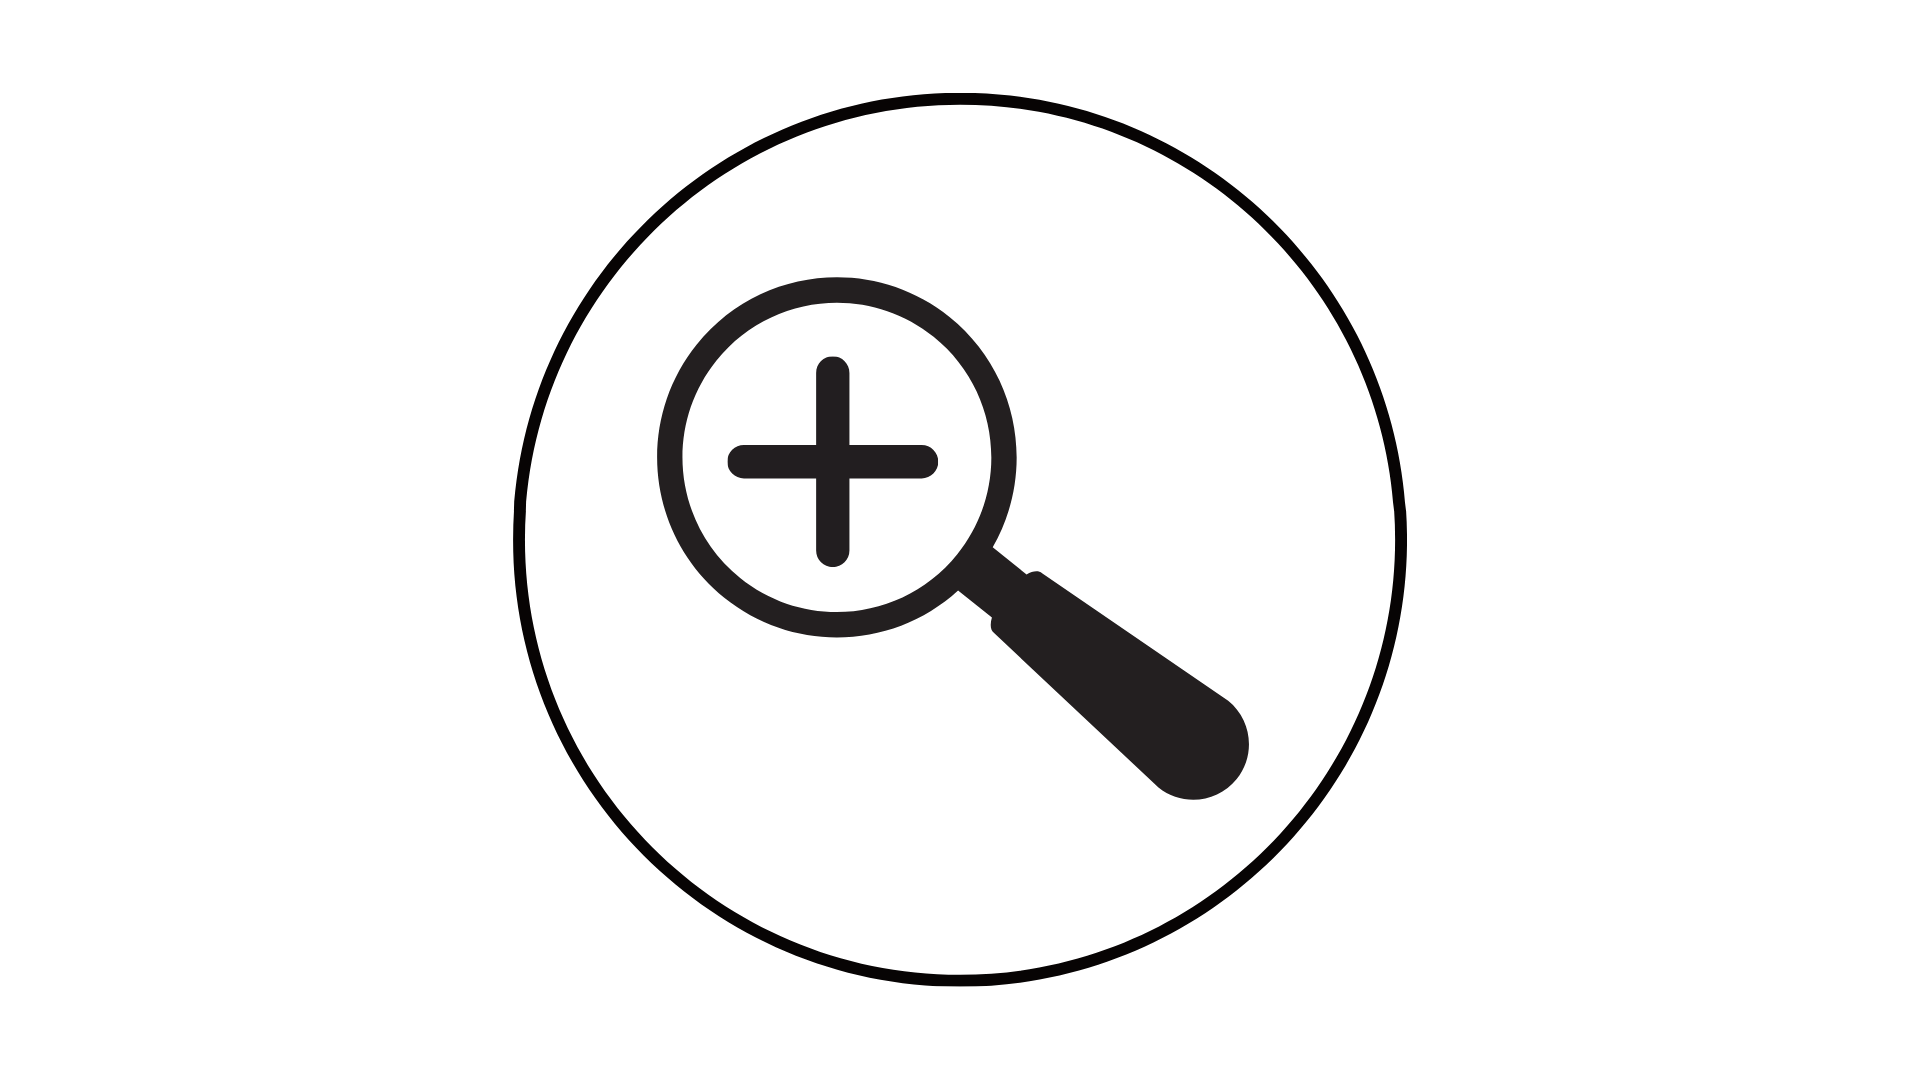
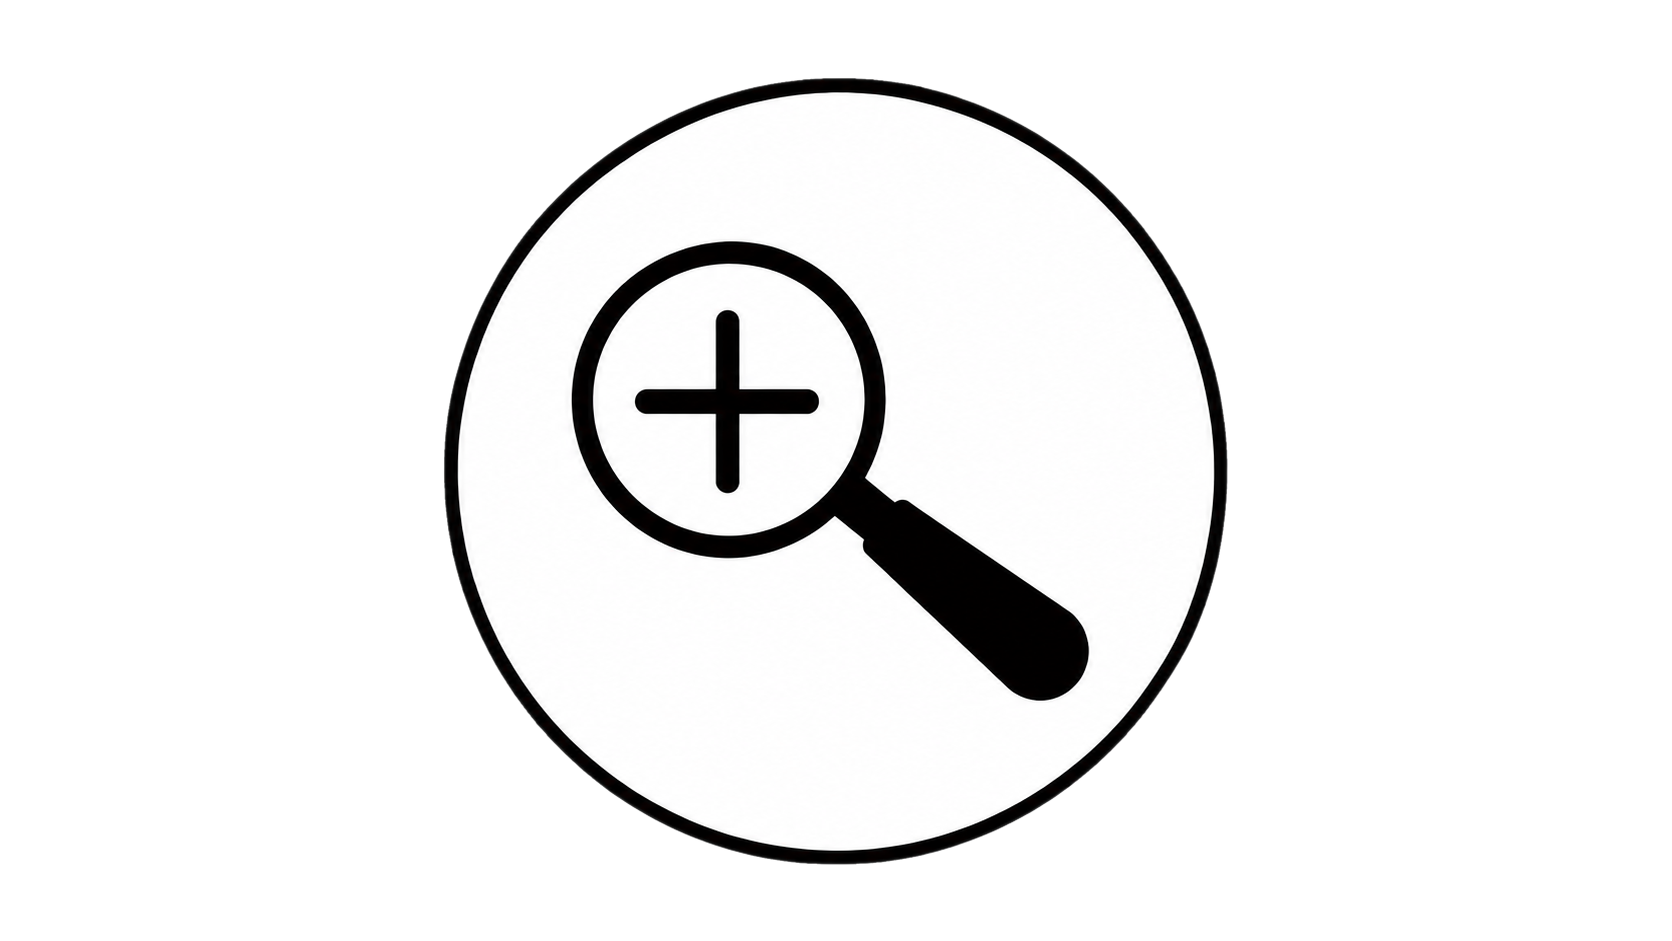
fix(screen-17): reposition 1st-try feedback, restore 34px feedback font
- Move the 'try again' message left of the 'צדקתי?' button (submit-row layout) so its 3rd line no longer clips past the card bottom edge.
- Remove the 28px feedback override so the box matches the 34px used on every other screen.

diff --git a/css/style.css b/css/style.css
@@ -2379,8 +2379,8 @@ html, body {
 /* Screen 17: the panel is dense (question + 2 dropdowns + Noa bottom-left), so the
    long feedback paragraph has no room. Place it bottom-right BELOW the dropdowns
    (top:600 in-panel ≈ canvas 744, clearing the dropdowns ~712) and clear of Noa
-   (width keeps the left edge right of x≈694). Font is reduced to 28px here so the
-   box fits within the canvas without overlapping anything. */
+   (width keeps the left edge right of x≈694). Font stays at the standard 34px
+   (inherited from .q8-feedback-box p) to match every other screen's feedback. */
 [data-screen="17"] #feedback-s17-correct,
 [data-screen="17"] #feedback-s17-incorrect {
   position: absolute;
@@ -2391,10 +2391,23 @@ html, body {
   width: 860px;
   z-index: 20;
 }
-[data-screen="17"] #feedback-s17-correct p,
-[data-screen="17"] #feedback-s17-incorrect p {
-  font-size: 28px;
-  line-height: 1.4;
+
+/* Screen 17: the 1st-wrong-attempt message was stacked BELOW the "צדקתי?"
+   button, which pushed its 3rd line ("כדי לקבל רמז") past the card's rounded
+   bottom edge (msg bottom 993 vs card bottom 992) where it got clipped.
+   Place it to the LEFT of the button instead — the submit-row layout used on
+   every other screen. Absolute within the panel (panel = positioned ancestor
+   at card 0,0; right:0 == panel right edge, matching the feedback box's
+   right:73). Vertically centered with the button (top 670 ≈ button center
+   750-80). Clears the fill-in box above (bottom 667), the button to its right
+   (left 1475 > msg right 1455), and Noa bottom-left (right edge 694). */
+[data-screen="17"] #try-again-msg-s17 {
+  position: absolute;
+  top: 536px;
+  right: 299px;
+  bottom: auto;
+  left: auto;
+  z-index: 16;
 }
 
 /* תיבת fill-in כוללת */
